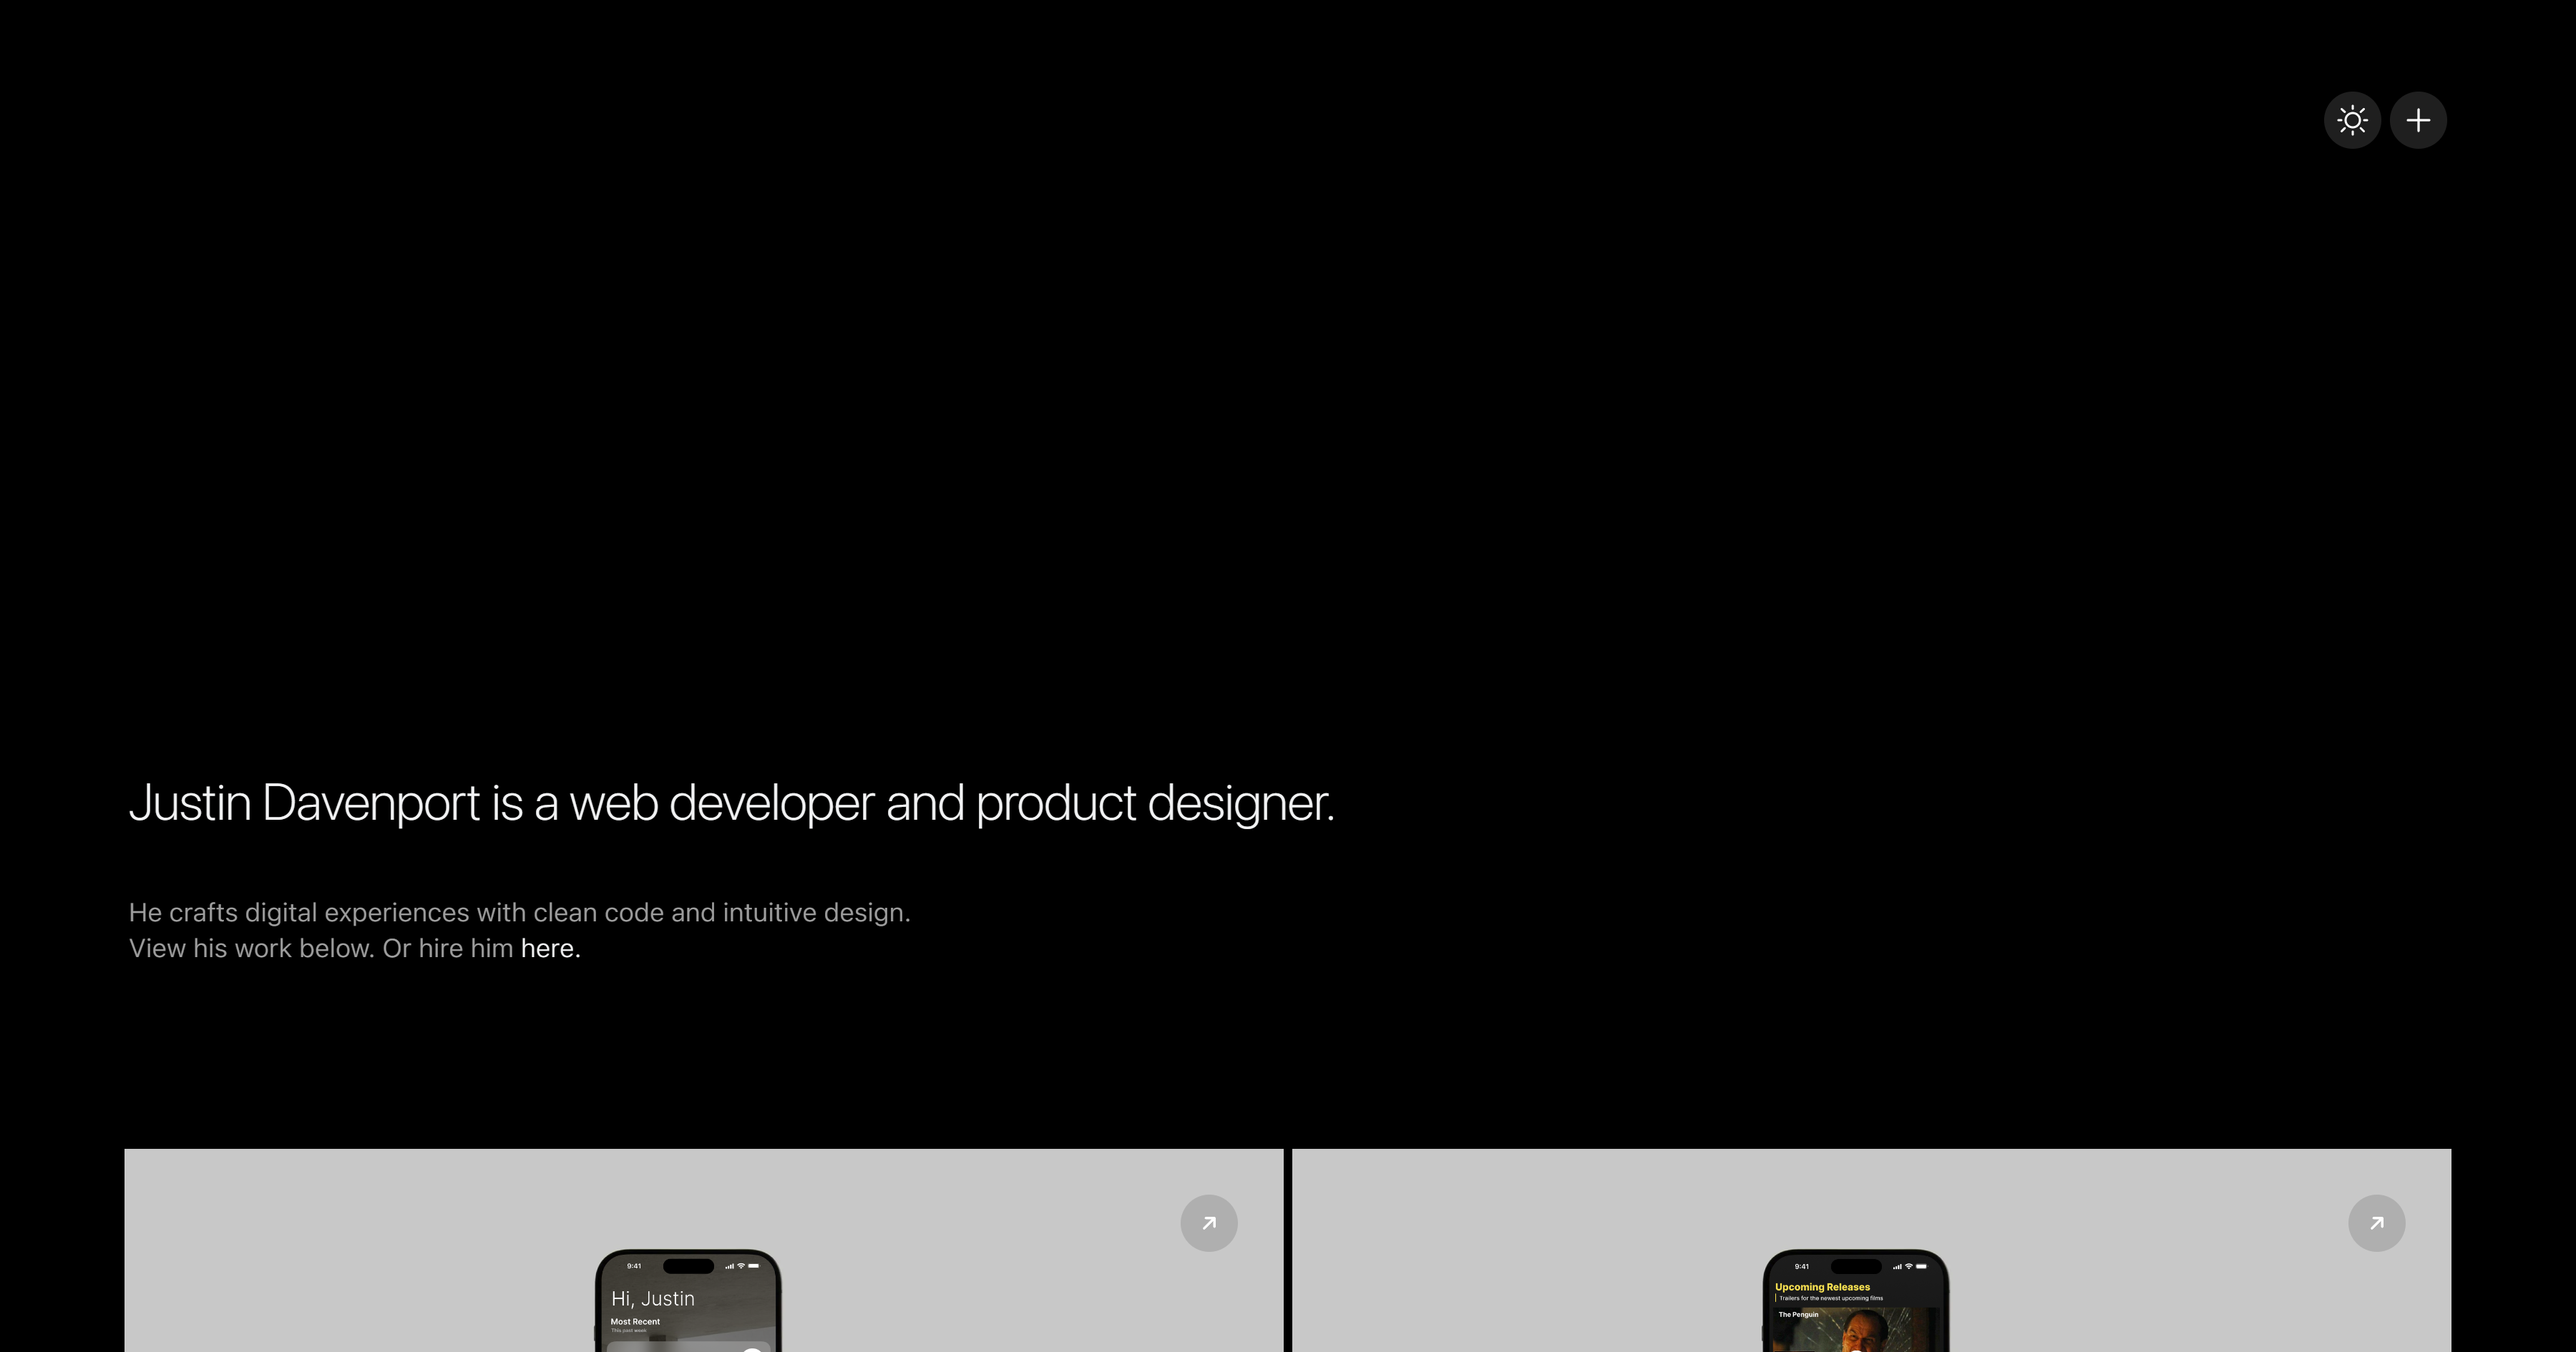
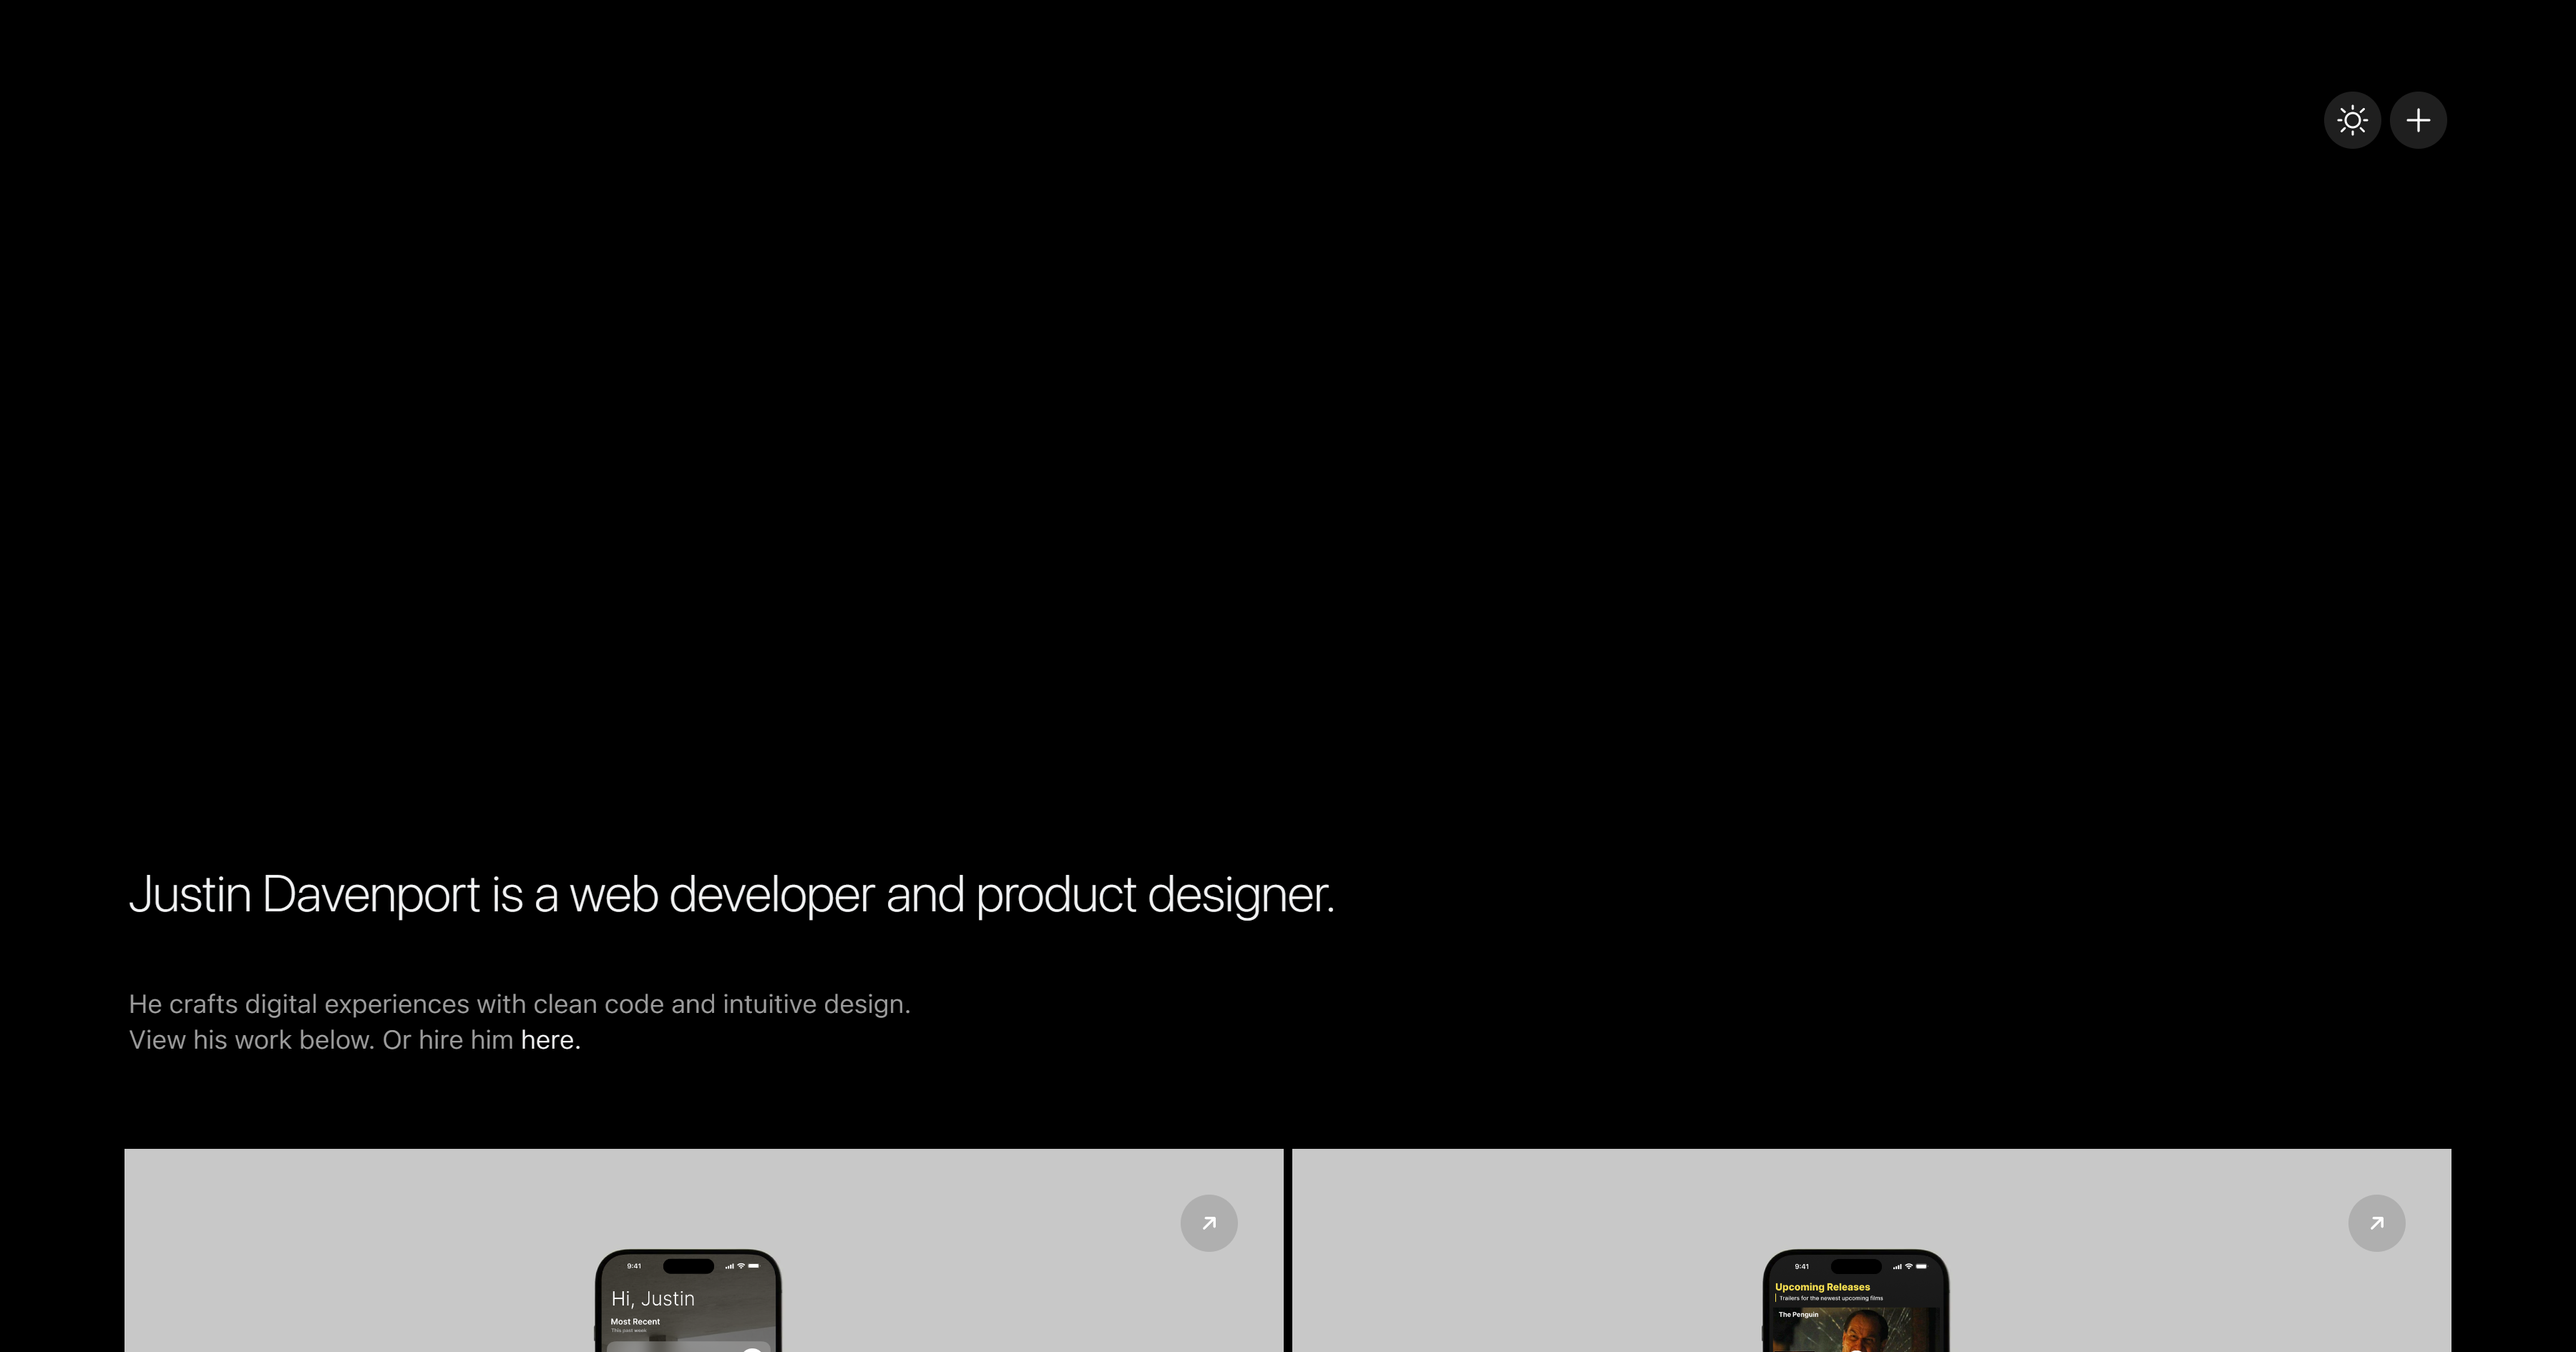
+

Changed region(s): [[0.0311, 0.6556, 0.5289, 0.7804], [0.0622, 0.5619, 0.5289, 0.6243]]

diff --git a/src/app/projects/imdb/page.tsx b/src/app/projects/imdb/page.tsx
@@ -408,10 +408,10 @@ export default function Home() {
               Project
             </p>
           </div>
-          <h1>Smart Home.</h1>
+          <h1>IMDb.</h1>
           <br />
           <span>
-            An all-in-one application to control your home’s smart devices.
+            The world's most popular source for movie, TV and celebrity content.
           </span>
           <br />
           <span style={{ display: "flex" }}>
@@ -446,7 +446,7 @@ export default function Home() {
       <div className="container-holder" style={{ marginBottom: "4rem" }}>
         <div style={{ width: "90%" }}>
           <img
-            src="/designs/smarthome.png"
+            src="/designs/imdb.png"
             ref={image}
             style={{
               opacity: "0",
@@ -486,17 +486,19 @@ export default function Home() {
               <h2>Overview.</h2>
               <br />
               <span>
-                The Smart Home app concept simplifies control of various
-                devices—lighting, cameras, and thermostats—on a single platform.
-                The goal was to create quick, engaging interactions for
-                efficient home management. The glassmorphism design adds a
-                modern, translucent look that offers a futuristic feel while
-                maintaining clear visual hierarchy.
+                The IMDb redesign focuses on creating an intuitive and visually
+                captivating platform for discovering movies, TV shows, and
+                celebrity content. The goal was to streamline the user
+                experience, making it easier to navigate, search, and interact
+                with media information. The modern interface leverages
+                glassmorphism to offer a clean, immersive look while ensuring
+                content is front and center, enhancing both aesthetics and
+                usability.
               </span>
             </div>
             <img
               ref={image2}
-              src="/designs/smarthome-mockup.png"
+              src="/designs/imdb-mockup.png"
               style={{
                 opacity: "0",
                 width: "50%",
@@ -524,12 +526,6 @@ export default function Home() {
               <h2>Process.</h2>
               <br />
               <span>
-                The design process involved research, wireframing, prototyping,
-                and user testing. It started by simplifying existing app
-                complexities for quick access to core features. Wireframes
-                mapped clear navigation for controls and modes. Glassmorphism
-                was used for a modern, sleek look. The Figma prototype
-                incorporated smooth animations, refined through user feedback.
               </span>
             </div>
           </div>
@@ -551,14 +547,15 @@ export default function Home() {
             <h2>Prototype.</h2>
             <br />
             <span>
-              The final prototype features a polished, futuristic interface with
-              translucent panels that contrast against a dynamic background,
-              shifting based on time or preference. Each device control is
-              housed in a frosted glass card for separation while preserving
-              visual unity. One-tap controls, live status updates, and quick
-              mode switching ("Away," "Night," or "Movie Time") make
-              interactions effortless, blending functionality with a sleek
-              glassmorphism design that ensures clarity and readability.
+              The final prototype showcases a sleek, modern interface with
+              translucent panels that create a striking contrast against a
+              dynamic background, adapting to user preferences or time of day.
+              Each media entry is presented in a frosted glass card, ensuring
+              visual separation while maintaining a cohesive look. Features such
+              as one-tap access, real-time updates, and quick navigation options
+              (like "Watchlist," "Trending," or "Recommended") enhance user
+              interactions, seamlessly combining functionality with a refined
+              glassmorphism design that prioritizes clarity and readability.
             </span>
           </div>
         </div>
@@ -567,7 +564,7 @@ export default function Home() {
           <div style={{ width: "90%" }}>
             <img
               ref={image3}
-              src="/designs/smarthome2.png"
+              src="/designs/imdb2.png"
               style={{
                 opacity: "0",
                 gridColumn: "span 4",
@@ -596,15 +593,6 @@ export default function Home() {
               <h2>Reflection.</h2>
               <br />
               <span>
-                Creating this concept was a journey in balancing modern
-                aesthetics with functionality. Glassmorphism added visual
-                appeal, but maintaining readability and usability required
-                careful consideration. Early testing emphasized that form should
-                not compromise function. Key takeaways included prioritizing
-                user needs over trends, keeping controls simple, and using
-                iterative design to refine the experience. The final design
-                blends elegance with usability, showcasing a potential future
-                for intuitive smart home interfaces.
               </span>
             </div>
           </div>

diff --git a/src/app/components/Work.tsx b/src/app/components/Work.tsx
@@ -25,27 +25,31 @@ const Work: React.FC<Props> = ({ worksDiv, setActiveSection, theme }) => {
     //   tag1: "UI / UX",
     //   tag2: "Figma",
     //   tag3: "Project",
+    //   openInNewTab:  true
     // },
     {
       name: "Smart Home",
       description:
         "All-in-one application to control your home’s smart devices.",
       image: "/designs/smarthome-mockup.png",
-      // link: "/projects/smartHome",
-      link: "https://dribbble.com/shots/24906297-Smart-Home-App",
+      link: "/projects/smartHome",
+      // link: "https://dribbble.com/shots/24906297-Smart-Home-App",
       tag1: "UI / UX",
       tag2: "Figma",
       tag3: "Project",
+      openInNewTab: false,
     },
     {
       name: "IMDb",
       description:
         "The world's most popular source for movie, TV and celebrity content.",
       image: "/designs/imdb-mockup.png",
-      link: "https://dribbble.com/shots/24913217-IMDb-mobile-app",
+      link: "/projects/imdb",
+      // link: "https://dribbble.com/shots/24913217-IMDb-mobile-app",
       tag1: "UI / UX",
       tag2: "Figma",
       tag3: "Project",
+      openInNewTab: false,
     },
     {
       name: "iSync",
@@ -56,6 +60,7 @@ const Work: React.FC<Props> = ({ worksDiv, setActiveSection, theme }) => {
       tag1: "Website",
       tag2: "Next.js",
       tag3: "Project",
+      openInNewTab: true,
     },
     {
       name: "Global Enterprises",
@@ -65,6 +70,7 @@ const Work: React.FC<Props> = ({ worksDiv, setActiveSection, theme }) => {
       tag1: "Website",
       tag2: "Next.js",
       tag3: "Project",
+      openInNewTab: true,
     },
     {
       name: "Teenage Engineering™",
@@ -75,6 +81,7 @@ const Work: React.FC<Props> = ({ worksDiv, setActiveSection, theme }) => {
       tag1: "Website",
       tag2: "Next.js",
       tag3: "Project",
+      openInNewTab: true,
     },
     {
       name: "Digital Portfolio",
@@ -85,6 +92,7 @@ const Work: React.FC<Props> = ({ worksDiv, setActiveSection, theme }) => {
       tag1: "Website",
       tag2: "Next.js",
       tag3: "Project",
+      openInNewTab: true,
     },
     {
       name: "Stack",
@@ -94,6 +102,7 @@ const Work: React.FC<Props> = ({ worksDiv, setActiveSection, theme }) => {
       tag1: "Website",
       tag2: "Next.js",
       tag3: "Project",
+      openInNewTab: true,
     },
     {
       name: "Cinema Collection",
@@ -104,6 +113,7 @@ const Work: React.FC<Props> = ({ worksDiv, setActiveSection, theme }) => {
       tag1: "Website",
       tag2: "Next.js",
       tag3: "Project",
+      openInNewTab: true,
     },
   ];
 
@@ -149,8 +159,8 @@ const Work: React.FC<Props> = ({ worksDiv, setActiveSection, theme }) => {
               key={index}
               className="project"
               href={project.link}
-              target="_blank"
-              rel="noopener noreferrer"
+              target={project.openInNewTab ? "_blank" : "_self"}
+              rel={project.openInNewTab ? "noopener noreferrer" : undefined}
               aria-label={project.name}
               style={{
                 opacity: 0,
@@ -163,18 +173,20 @@ const Work: React.FC<Props> = ({ worksDiv, setActiveSection, theme }) => {
             >
               <div className="overlay"></div>
               <div className="project-title">
-                  <h2 style={{ color: "white" }}>{project.name}</h2>
-                  <span style={{ color: "var(--text-color-project)" }}>{project.description}</span>
-                  <div
-                    style={{
-                      display: "flex",
-                      gap: "0.4rem",
-                      marginTop: "0.8rem",
-                    }}
-                  >
-                    <p className="detail">{project.tag1}</p>
-                    <p className="detail">{project.tag2}</p>
-                    <p className="detail">{project.tag3}</p>
+                <h2 style={{ color: "white" }}>{project.name}</h2>
+                <span style={{ color: "var(--text-color-project)" }}>
+                  {project.description}
+                </span>
+                <div
+                  style={{
+                    display: "flex",
+                    gap: "0.4rem",
+                    marginTop: "0.8rem",
+                  }}
+                >
+                  <p className="detail">{project.tag1}</p>
+                  <p className="detail">{project.tag2}</p>
+                  <p className="detail">{project.tag3}</p>
                 </div>
               </div>
               <div className="project-btn">

diff --git a/src/app/globals.css b/src/app/globals.css
@@ -68,6 +68,14 @@
     border-left: 1px dashed var(--text-color-light2);
   } */
 
+  /* .grid {
+    width: 90%;
+    display: grid;
+    grid-template-columns: repeat(4, 1fr);
+    grid-template-rows: repeat(2, 100vh);
+    gap: 0.4rem;
+  } */
+
   button {
     all: unset;
     cursor: pointer;
@@ -135,8 +143,8 @@
   a,
   button {
     color: var(--text-color);
-    font-size: clamp(12px, 2vw, 14px);
-    font-weight: 400;
+    font-size: clamp(16px, 4vw, 1vw);
+    font-weight: 200;
     line-height: 1.4;
     text-decoration: none;
     width: fit-content;
@@ -167,7 +175,7 @@
   }
 
   nav {
-    display: flex;
+    display: flex; 
     justify-content: center;
     z-index: 6;
     position: fixed;
@@ -175,6 +183,19 @@
     right: 5%;
     transition: all 0.3s ease-in-out;
     gap: 0.4rem;
+  }
+
+  .nav-slider {
+    position: fixed;
+    display: flex;
+    justify-content: center;
+    flex-direction: column;
+    align-items: flex-start;
+    gap: 0.4rem;
+    top: 4rem;
+    left: 5%;
+    z-index: 4;
+    transition: all 0.3s ease-in-out;
   }
 
   .logo {
@@ -409,7 +430,7 @@
 
   .container-splash {
     opacity: 0;
-    margin-bottom: 8rem;
+    margin-bottom: 4rem;
   }
 
   .container-title {

diff --git a/src/app/about/page.tsx b/src/app/about/page.tsx
@@ -395,13 +395,13 @@ export default function Home() {
           </div>
           <img
             src="/me.jpg"
-            width={450}
+            width={600}
             style={{
               borderRadius: theme.borderRadius,
               objectPosition: "center center",
               objectFit: "cover",
-              maxWidth: "450px",
-              maxHeight: "450px",
+              maxWidth: "600px",
+              maxHeight: "600px",
               opacity: "0",
             }}
             ref={image}
